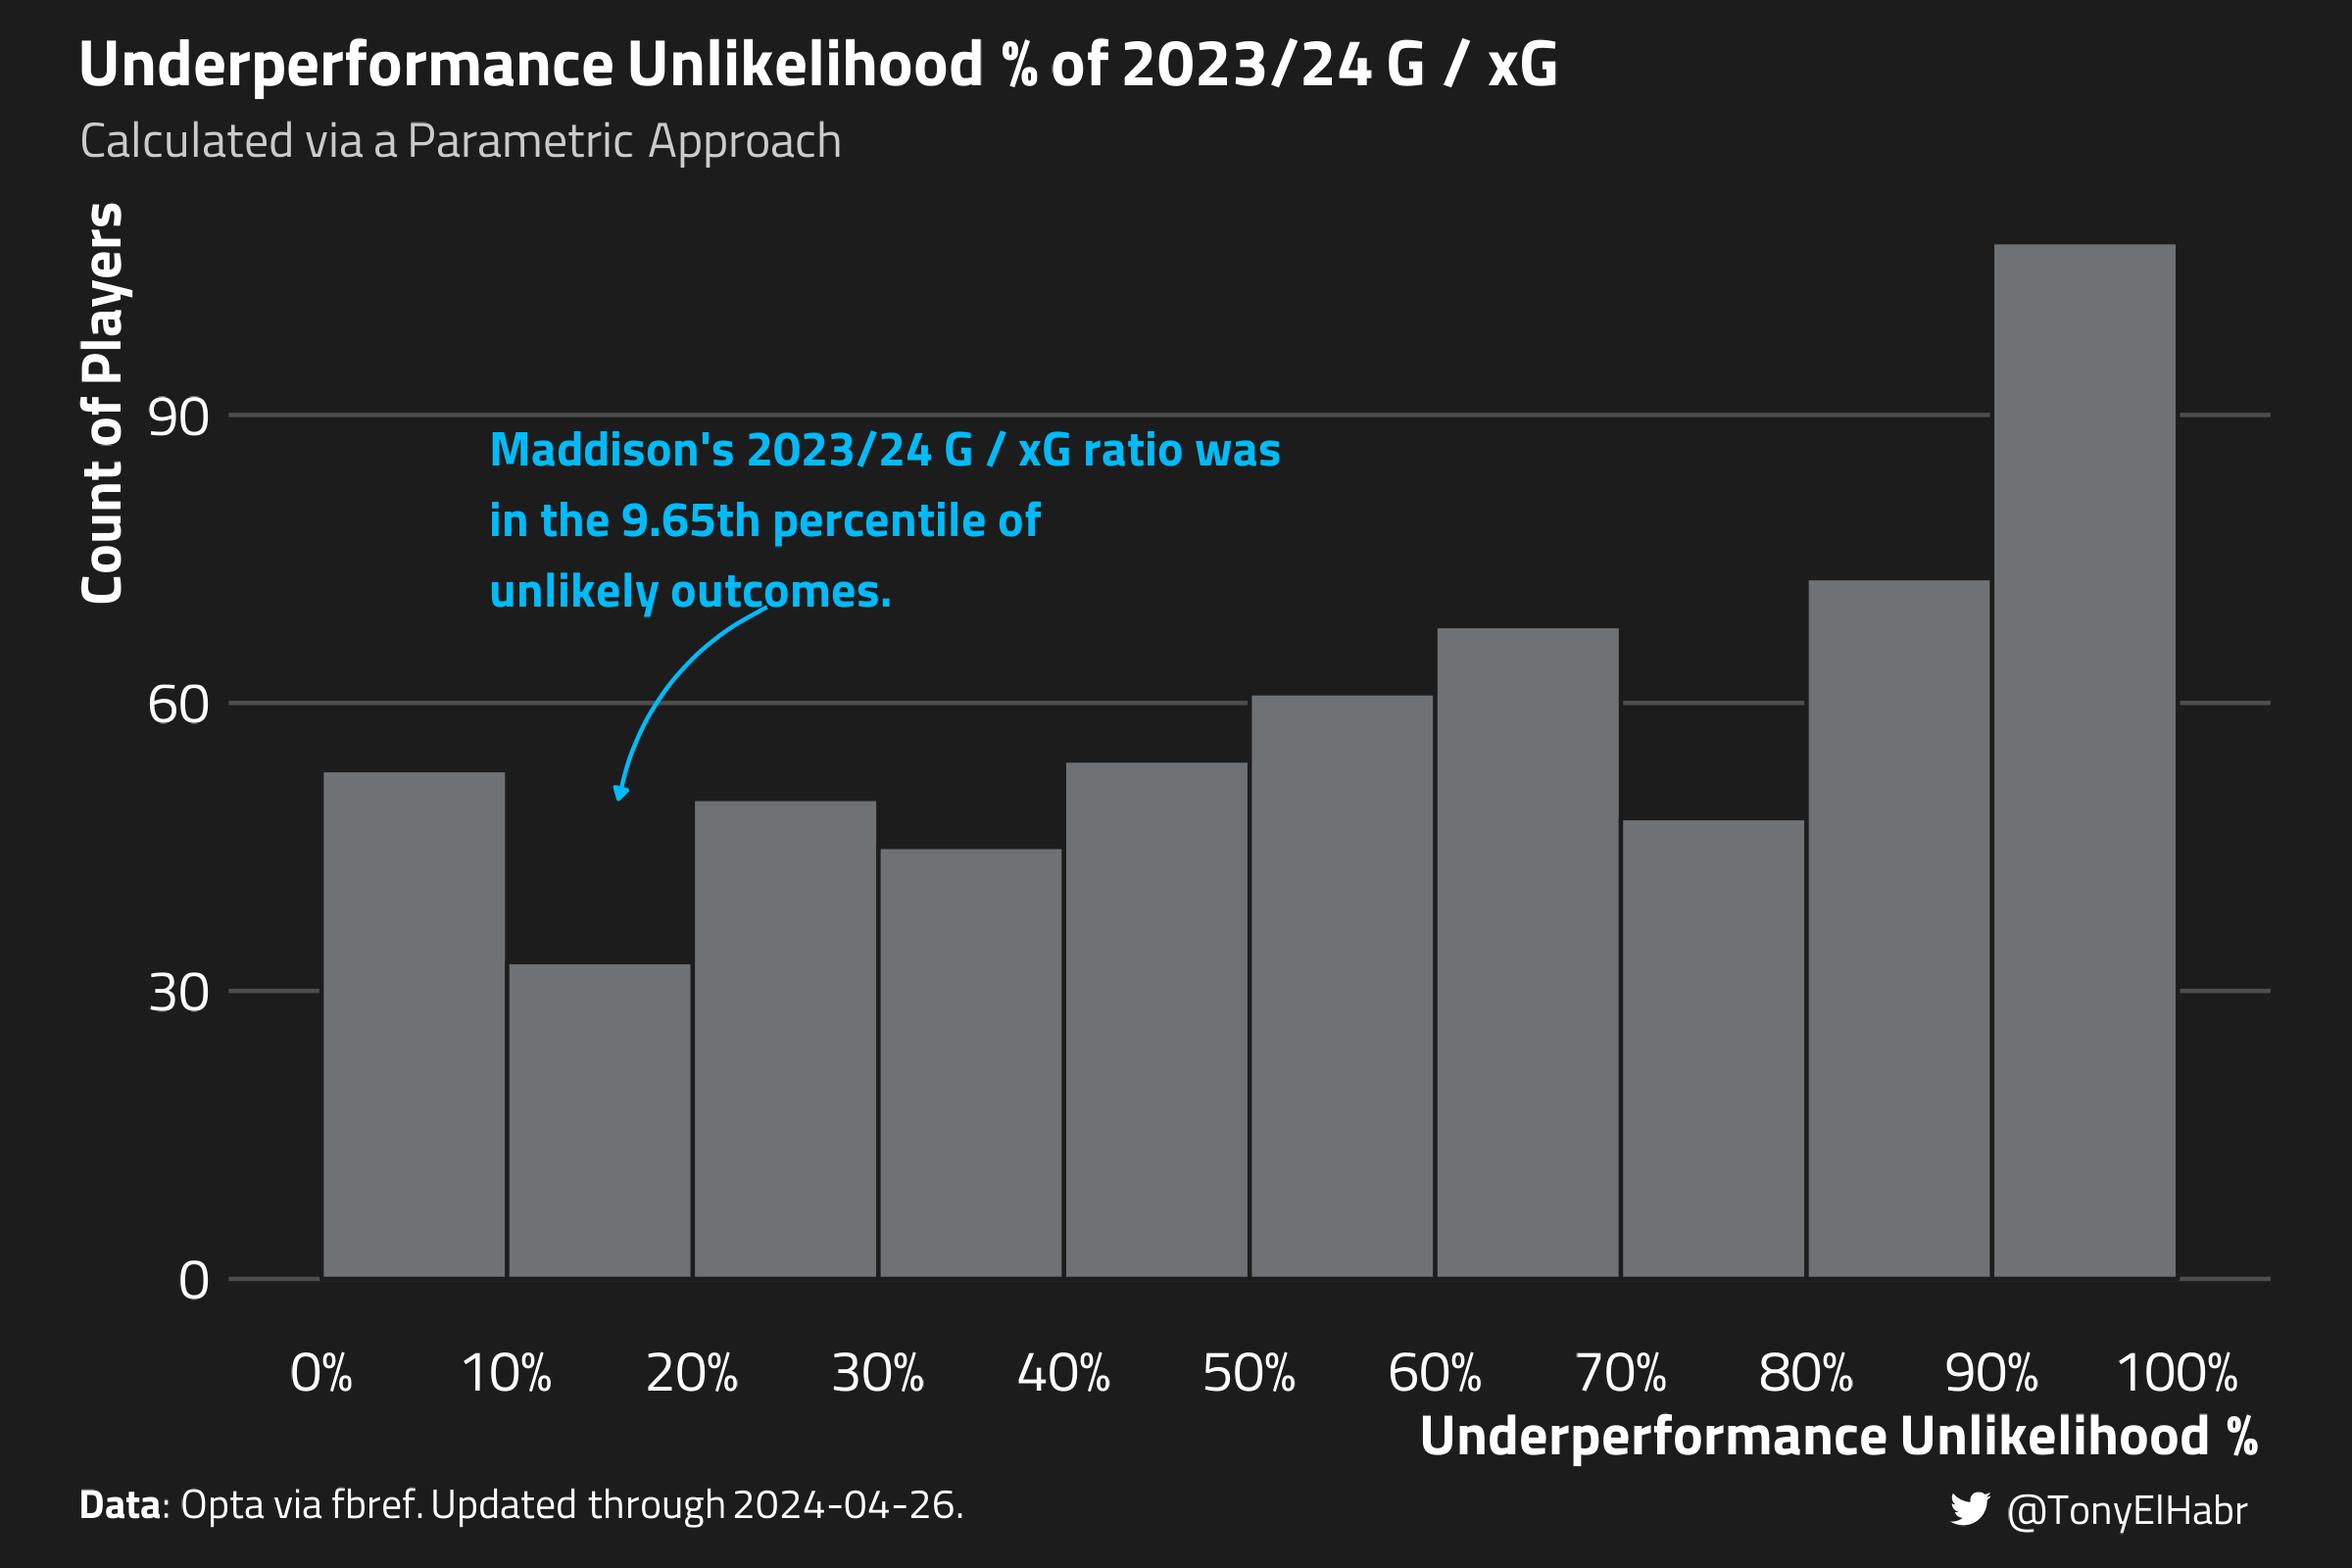
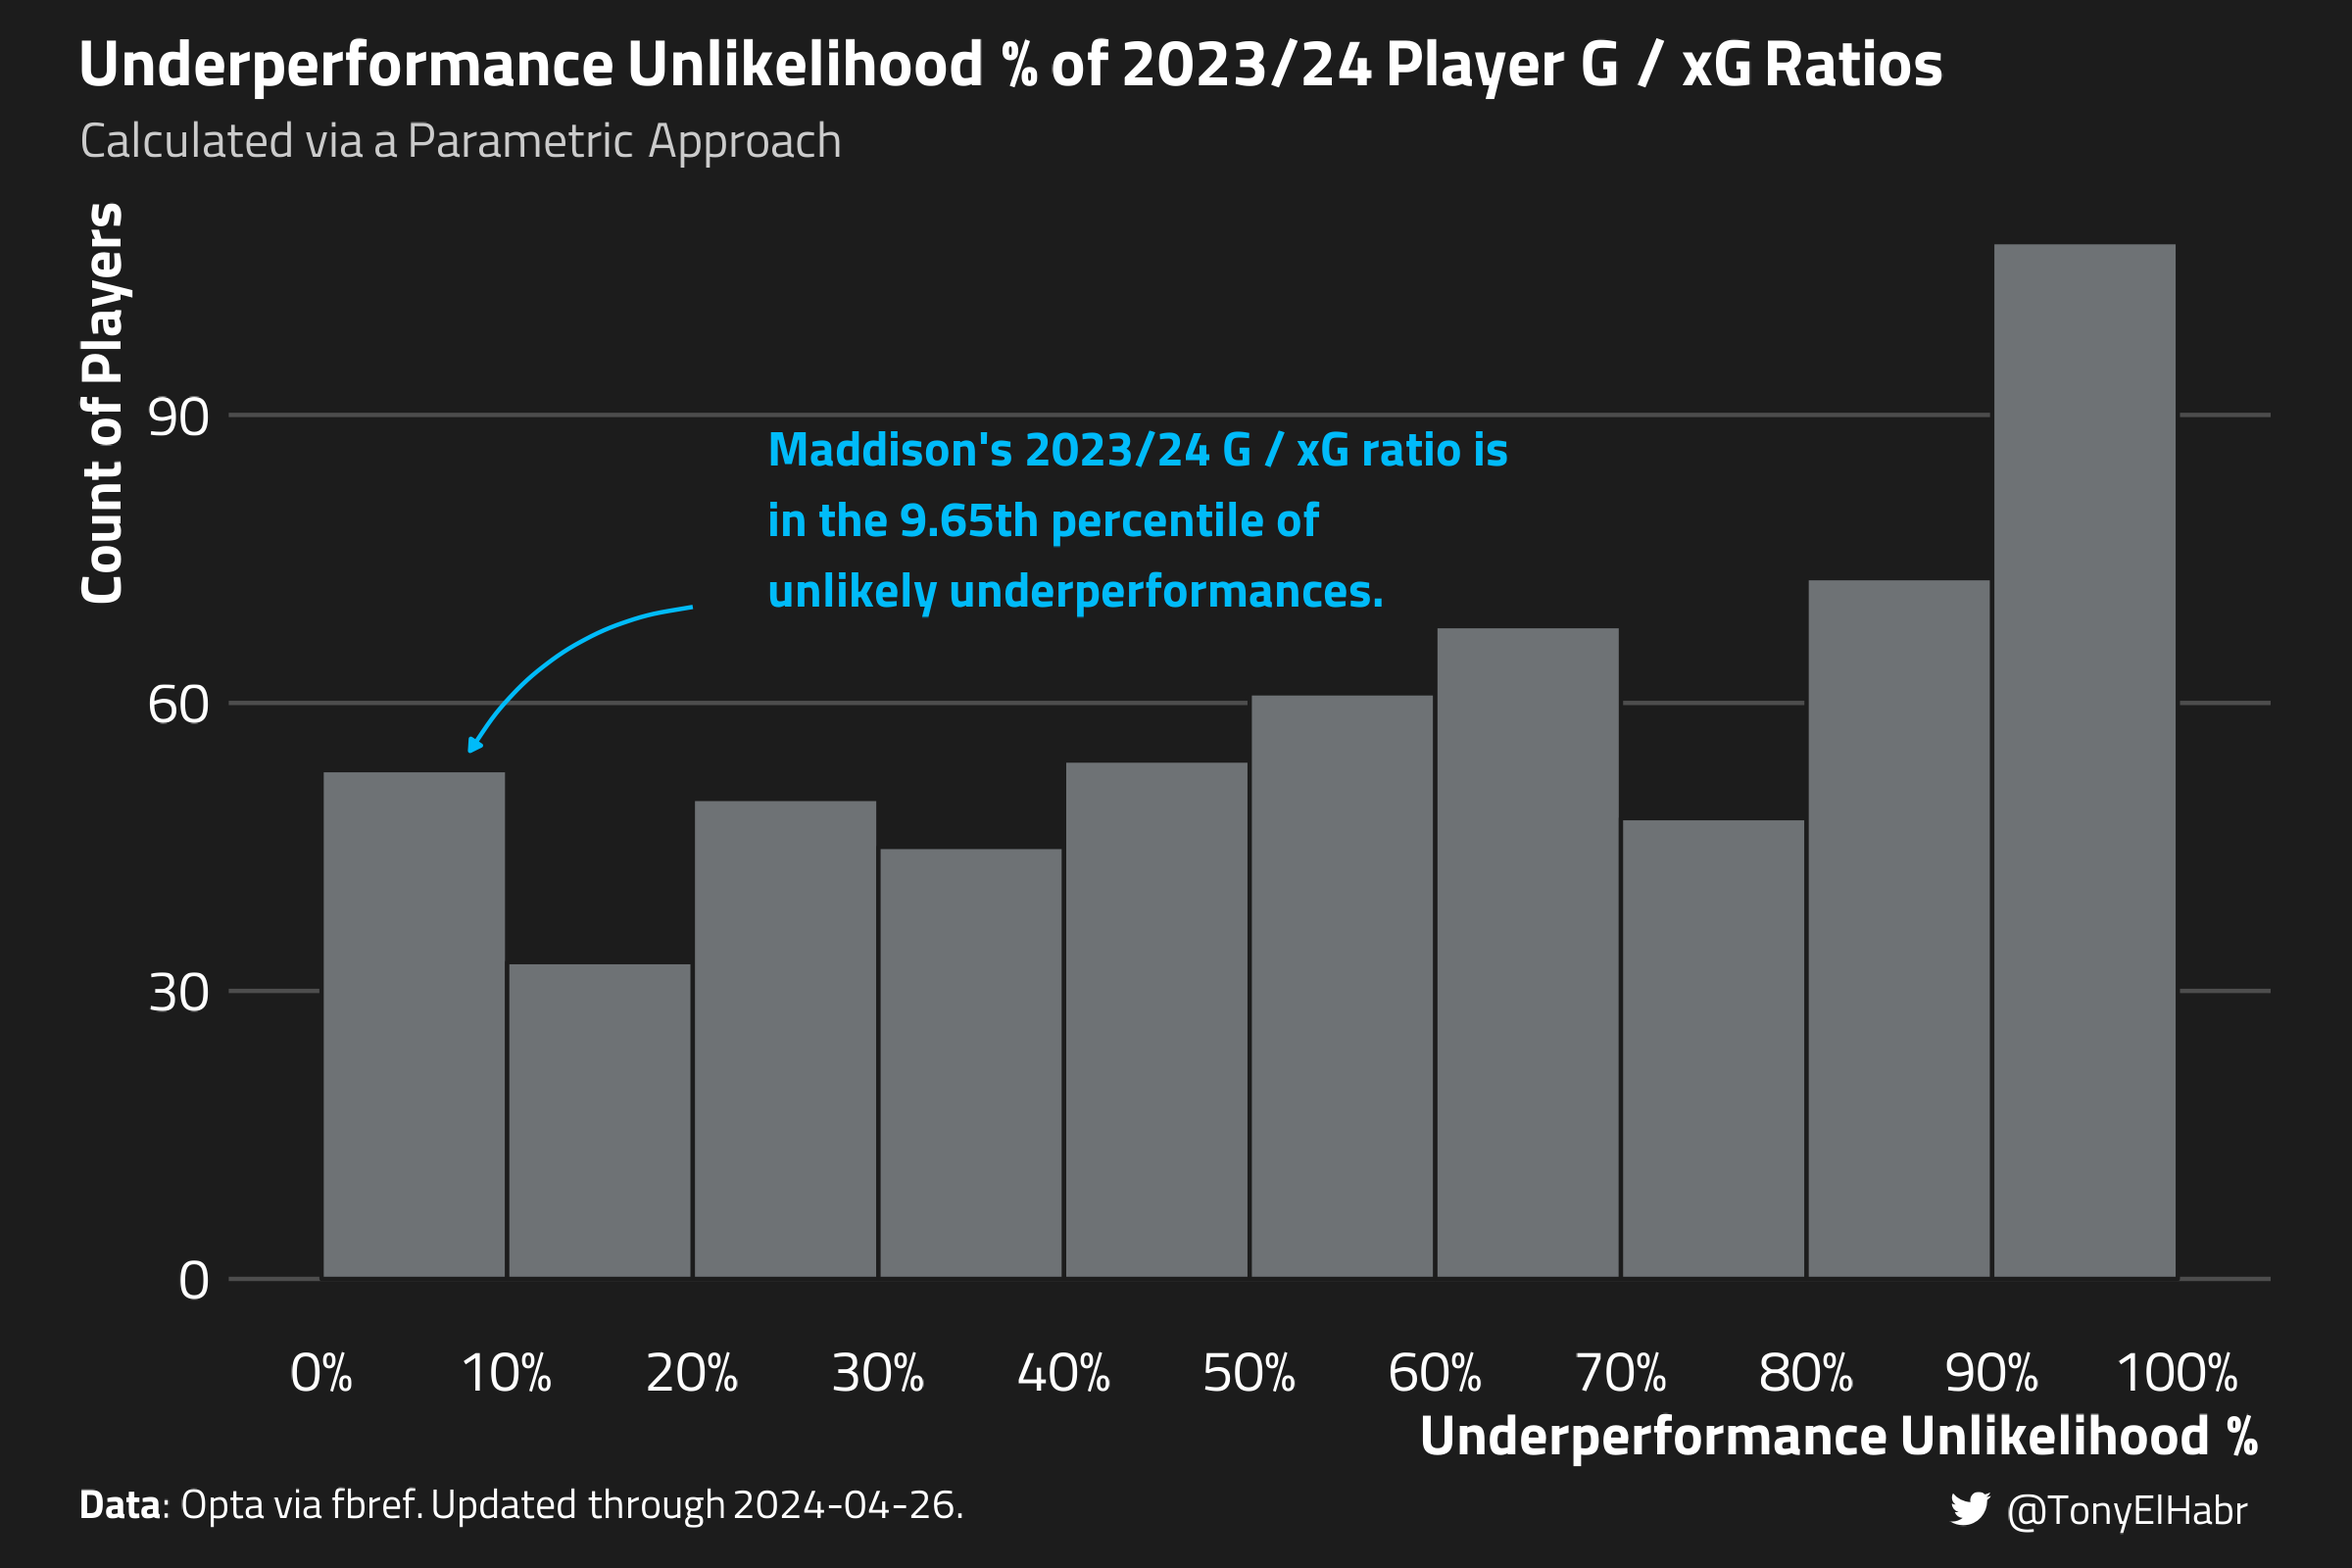
plot updates

Changed region(s): [[0.1875, 0.25, 0.6562, 0.4375], [0.5938, 0.0312, 0.8438, 0.0625]]

diff --git a/_site/drafts/xg-likelihood/index.html b/_site/drafts/xg-likelihood/index.html
@@ -850,7 +850,7 @@ O_p = \frac{G_p}{xG_p}
 <span id="cb15-6"><a href="#cb15-6" aria-hidden="true" tabindex="-1"></a><span class="co">#&gt; 2 Matheus Cunha    0.772    1.16  0.903  0.0965</span></span></code><button title="Copy to Clipboard" class="code-copy-button"><i class="bi"></i></button></pre></div>
 </details>
 </div>
-<p>We see that Maddison’s 2023/24 <span class="math inline">\(O_\{p,\text{target}}\)</span> ratio of 0.847 (or worse) was about 7% unlikely given his prior shot history (<code>uu</code>), and that Cunha’s 2023/24 <span class="math inline">\(O_{p,\text{target}}\)</span> ratio of 1.16 was a 10th percentile outcome (<code>ou</code>).</p>
+<p>We see that Maddison’s 2023/24 <span class="math inline">\(O_{p,\text{target}}\)</span> ratio of 0.847 (or worse) was about 7% unlikely given his prior shot history (<code>uu</code>), and that Cunha’s 2023/24 <span class="math inline">\(O_{p,\text{target}}\)</span> ratio of 1.16 was a 10th percentile outcome (<code>ou</code>).</p>
 <p>To gain some intuition around this approach, we can plot out the Gamma distributed estimate of Maddison’s <span class="math inline">\(O_p\)</span>. The result is a histogram that looks not all that dissimilar to the one from before with resampled shots, just much smoother (since this is a “parametric” approach).</p>
 <p><img src="maddison_uu_approach3.png" class="img-fluid"></p>
 <section id="discussion-3" class="level4">

diff --git a/_site/drafts.html b/_site/drafts.html
@@ -185,7 +185,7 @@ gtag('config', 'G-TKB26G5GZW', { 'anonymize_ip': true});
 
 <div class="quarto-listing quarto-listing-container-default" id="listing-listing">
 <div class="list quarto-listing-default">
-<div class="quarto-post image-right" data-index="0" data-categories="r,soccer" data-listing-date-sort="1714798800000" data-listing-file-modified-sort="1714619690957" data-listing-date-modified-sort="NaN" data-listing-reading-time-sort="45">
+<div class="quarto-post image-right" data-index="0" data-categories="r,soccer" data-listing-date-sort="1714798800000" data-listing-file-modified-sort="1714620265612" data-listing-date-modified-sort="NaN" data-listing-reading-time-sort="45">
 <div class="thumbnail">
 <p><a href="./drafts/xg-likelihood/index.html"> <img src="./drafts/xg-likelihood/maddison_uu_approach3.png" class="thumbnail-image"> </a></p>
 </div>
